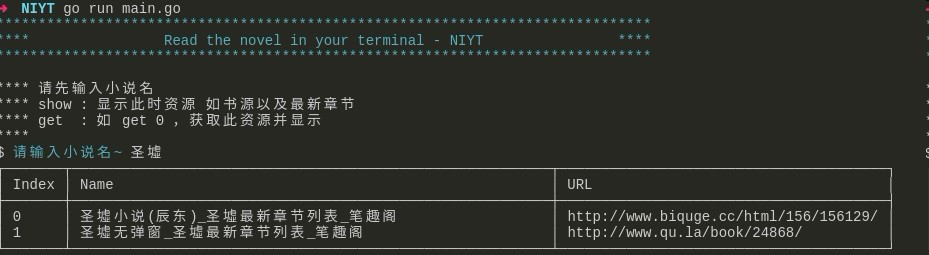
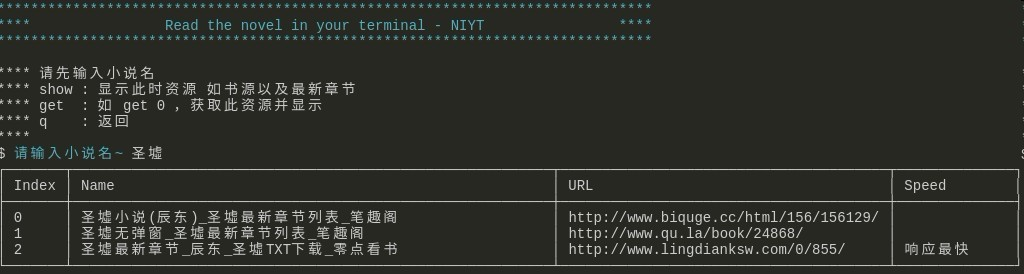
v0.1.2 添加源的响应速度测试与建议

diff --git a/main.go b/main.go
@@ -8,6 +8,7 @@ import (
 	"strings"
 
 	"github.com/fatih/color"
+	"github.com/howie6879/NIYT/common"
 	"github.com/howie6879/NIYT/fetcher"
 	"github.com/modood/table"
 )
@@ -16,6 +17,7 @@ type novleDemo struct {
 	Index int
 	Name  string
 	URL   string
+	Speed string
 }
 
 type chapterDemo struct {
@@ -61,10 +63,18 @@ func main() {
 		resultData, _ := fetcher.FetchResult(query)
 		if len(resultData) > 0 {
 			var novelData []novleDemo
+			quickest := make(chan int, len(resultData))
 			for index, data := range resultData {
 				novelData = append(novelData, novleDemo{Index: index, Name: data.Title, URL: data.URL})
+				go func() {
+					quickest <- common.QuickestURL(index, data.URL)
+				}()
 			}
-			table.Output(novelData)
+			currentIndex := <-quickest
+			if currentIndex != -1 {
+				novelData[currentIndex].Speed = "响应最快"
+				table.Output(novelData)
+			}
 			for {
 				flag := false
 				fmt.Fprintf(color.Output, "$ %s", color.CyanString(name+" 源 ~ "))

diff --git a/common/tools.go b/common/tools.go
@@ -18,6 +18,18 @@ func RequestURL(url string) (*http.Response, error) {
 	return response, err
 }
 
+// QuickestURL return the quickest response
+func QuickestURL(index int, url string) int {
+	// start := time.Now()
+	_, err := http.Get(url)
+	if err != nil {
+		return -1
+	}
+	// timeUsed := strconv.FormatFloat(time.Since(start).Seconds(), 'f', 6, 64)
+	// fmt.Println(url, timeUsed)
+	return index
+}
+
 // DetectBody gbk convert to utf-8
 func DetectBody(body []byte) string {
 	var bodyString string

diff --git a/README.md b/README.md
@@ -31,13 +31,18 @@ CGO_ENABLED=0 GOOS=linux GOARCH=amd64 go build  -o ./release/NIYT.linux
 # 运行下载的`NIYT.linux` 这样就可以直接执行使用
 ./NIYT.linux
 
+# 若提示无法运行，例如在mac下
+chmod a+x NIYT.mac
+# 再运行即可
+./NIYT.mac
+
 ```
 
-首先输入小说名称，调用第三方搜索，利用本地`json`文件解析，终端就会显示小说源：
+首先输入小说名称，调用第三方搜索，终端就会显示小说源：
 
 ![demo01](./images/demo01.jpg)
 
-利用`get 0`进入第一个源，获取最新章节：
+利用`get 2`进入提示相应最快的源，获取最新章节：
 ![demo02](./images/demo02.jpg)
 
 选择章节进行阅读，如阅读最新章节，`get 0`:
